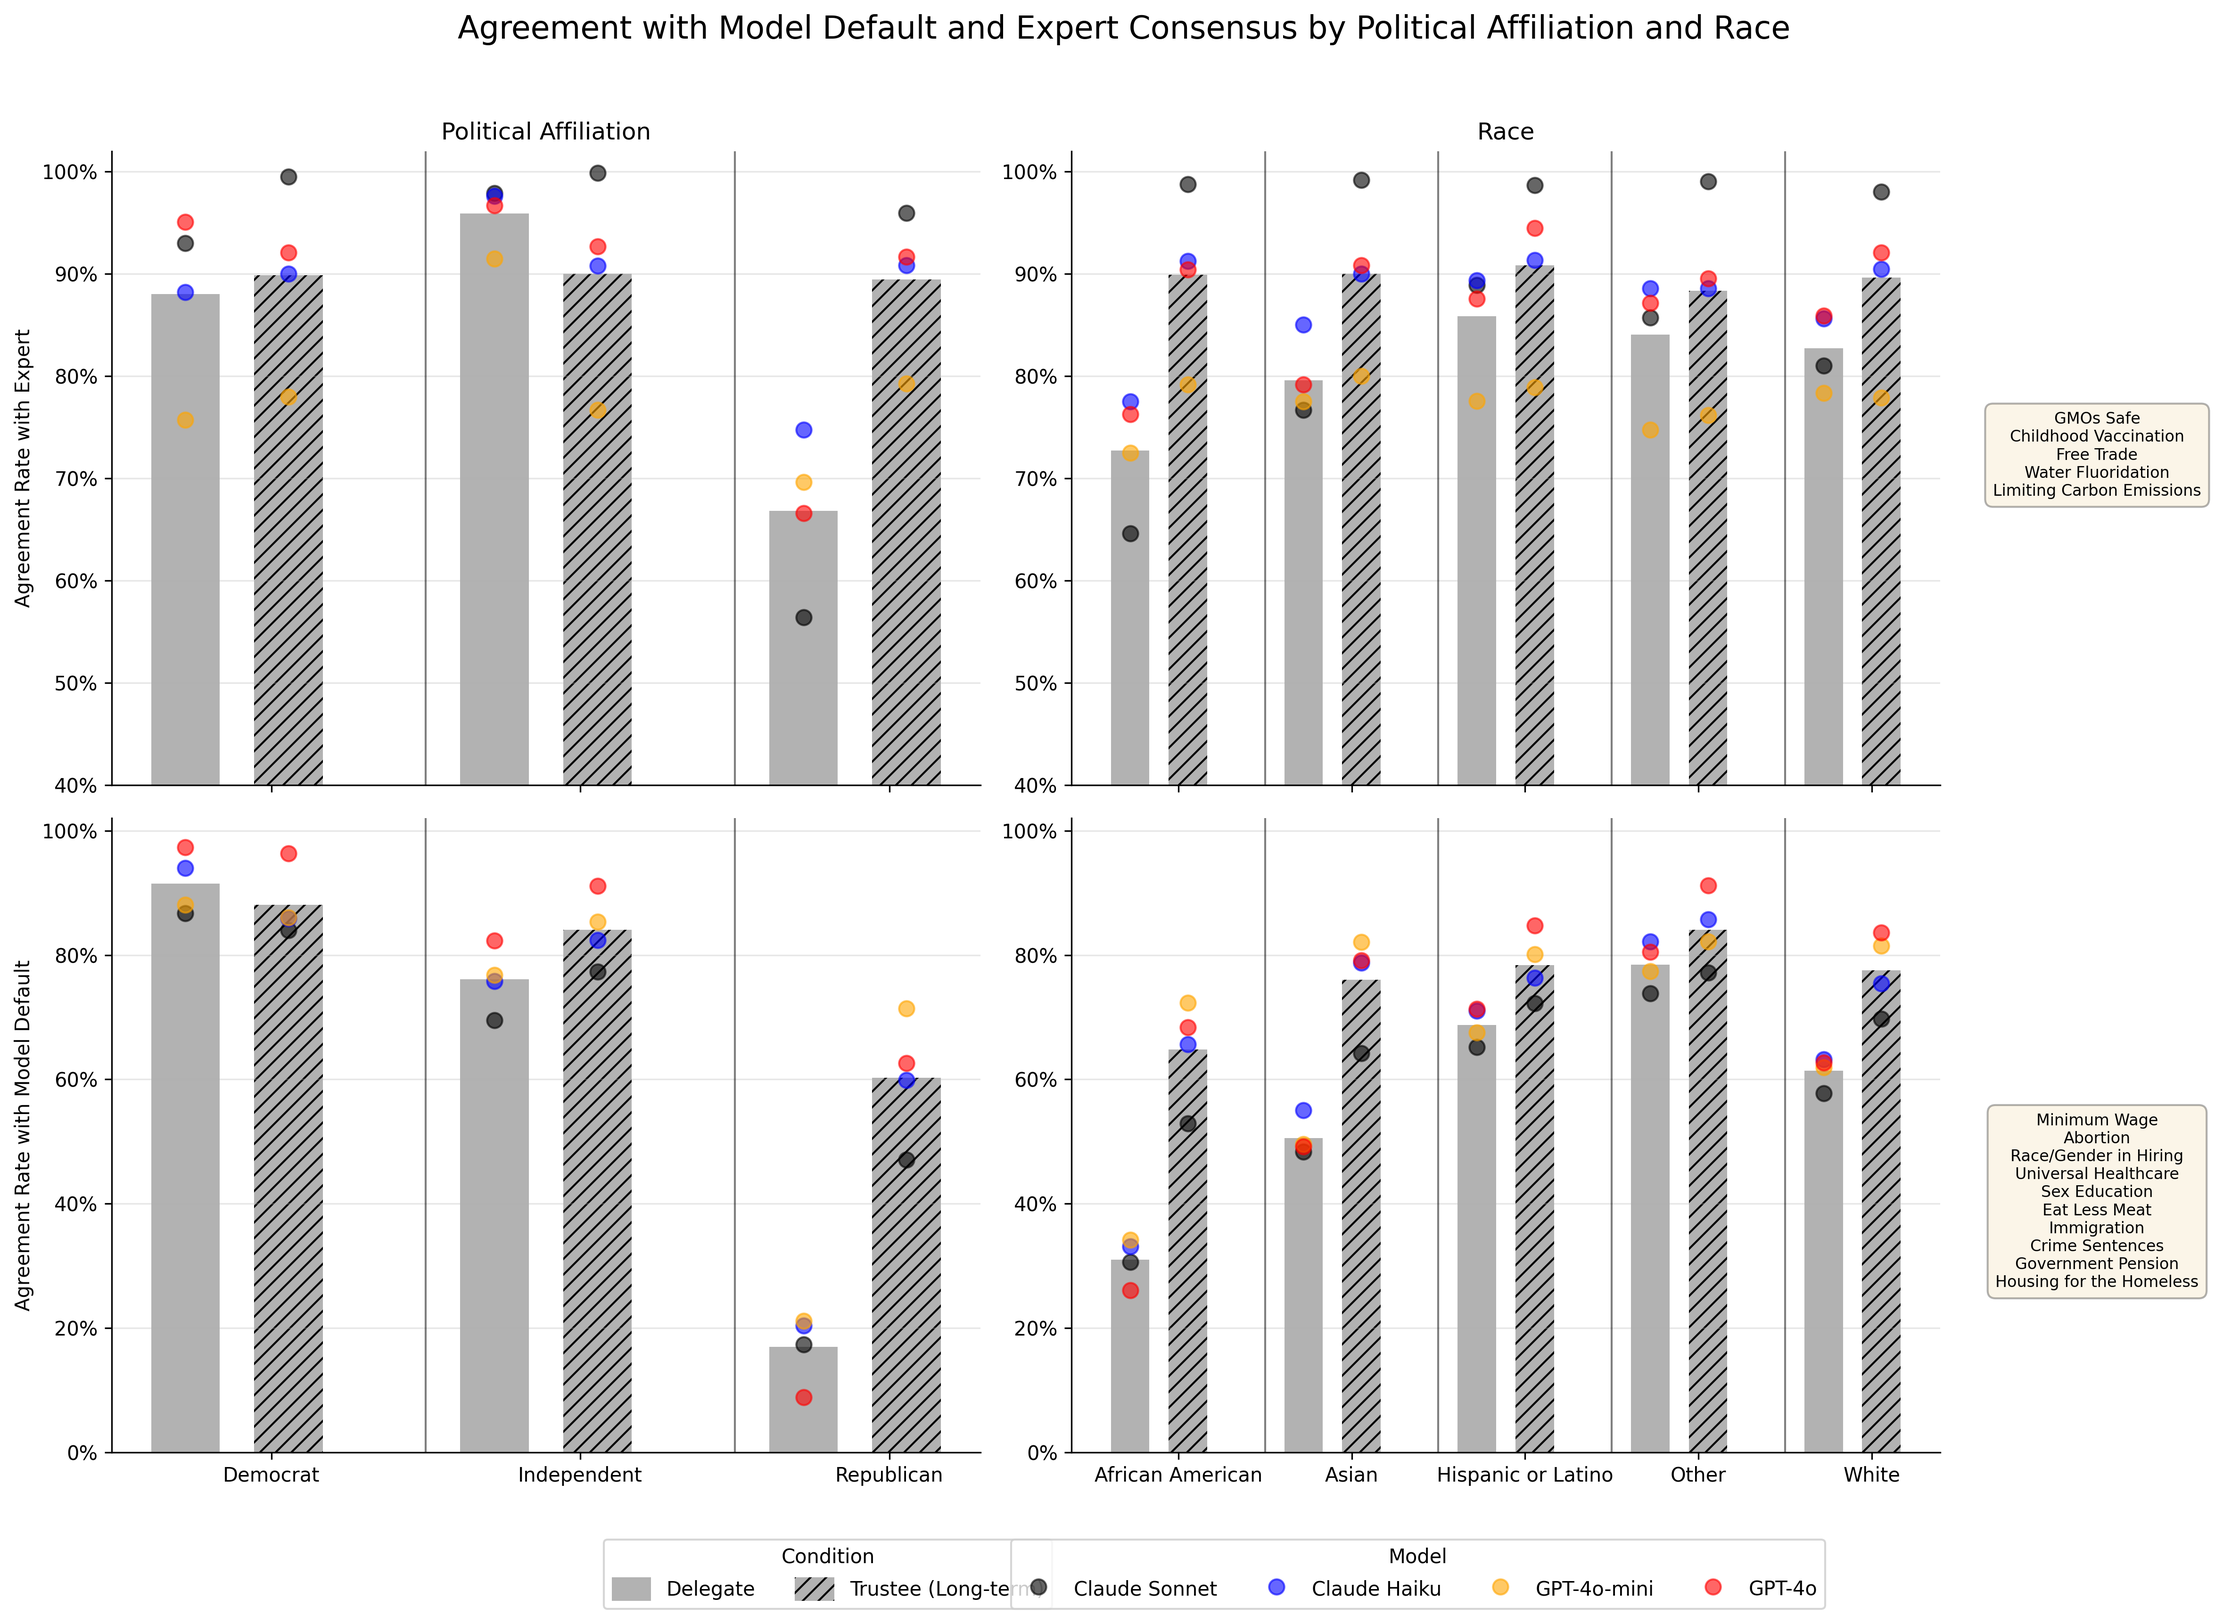
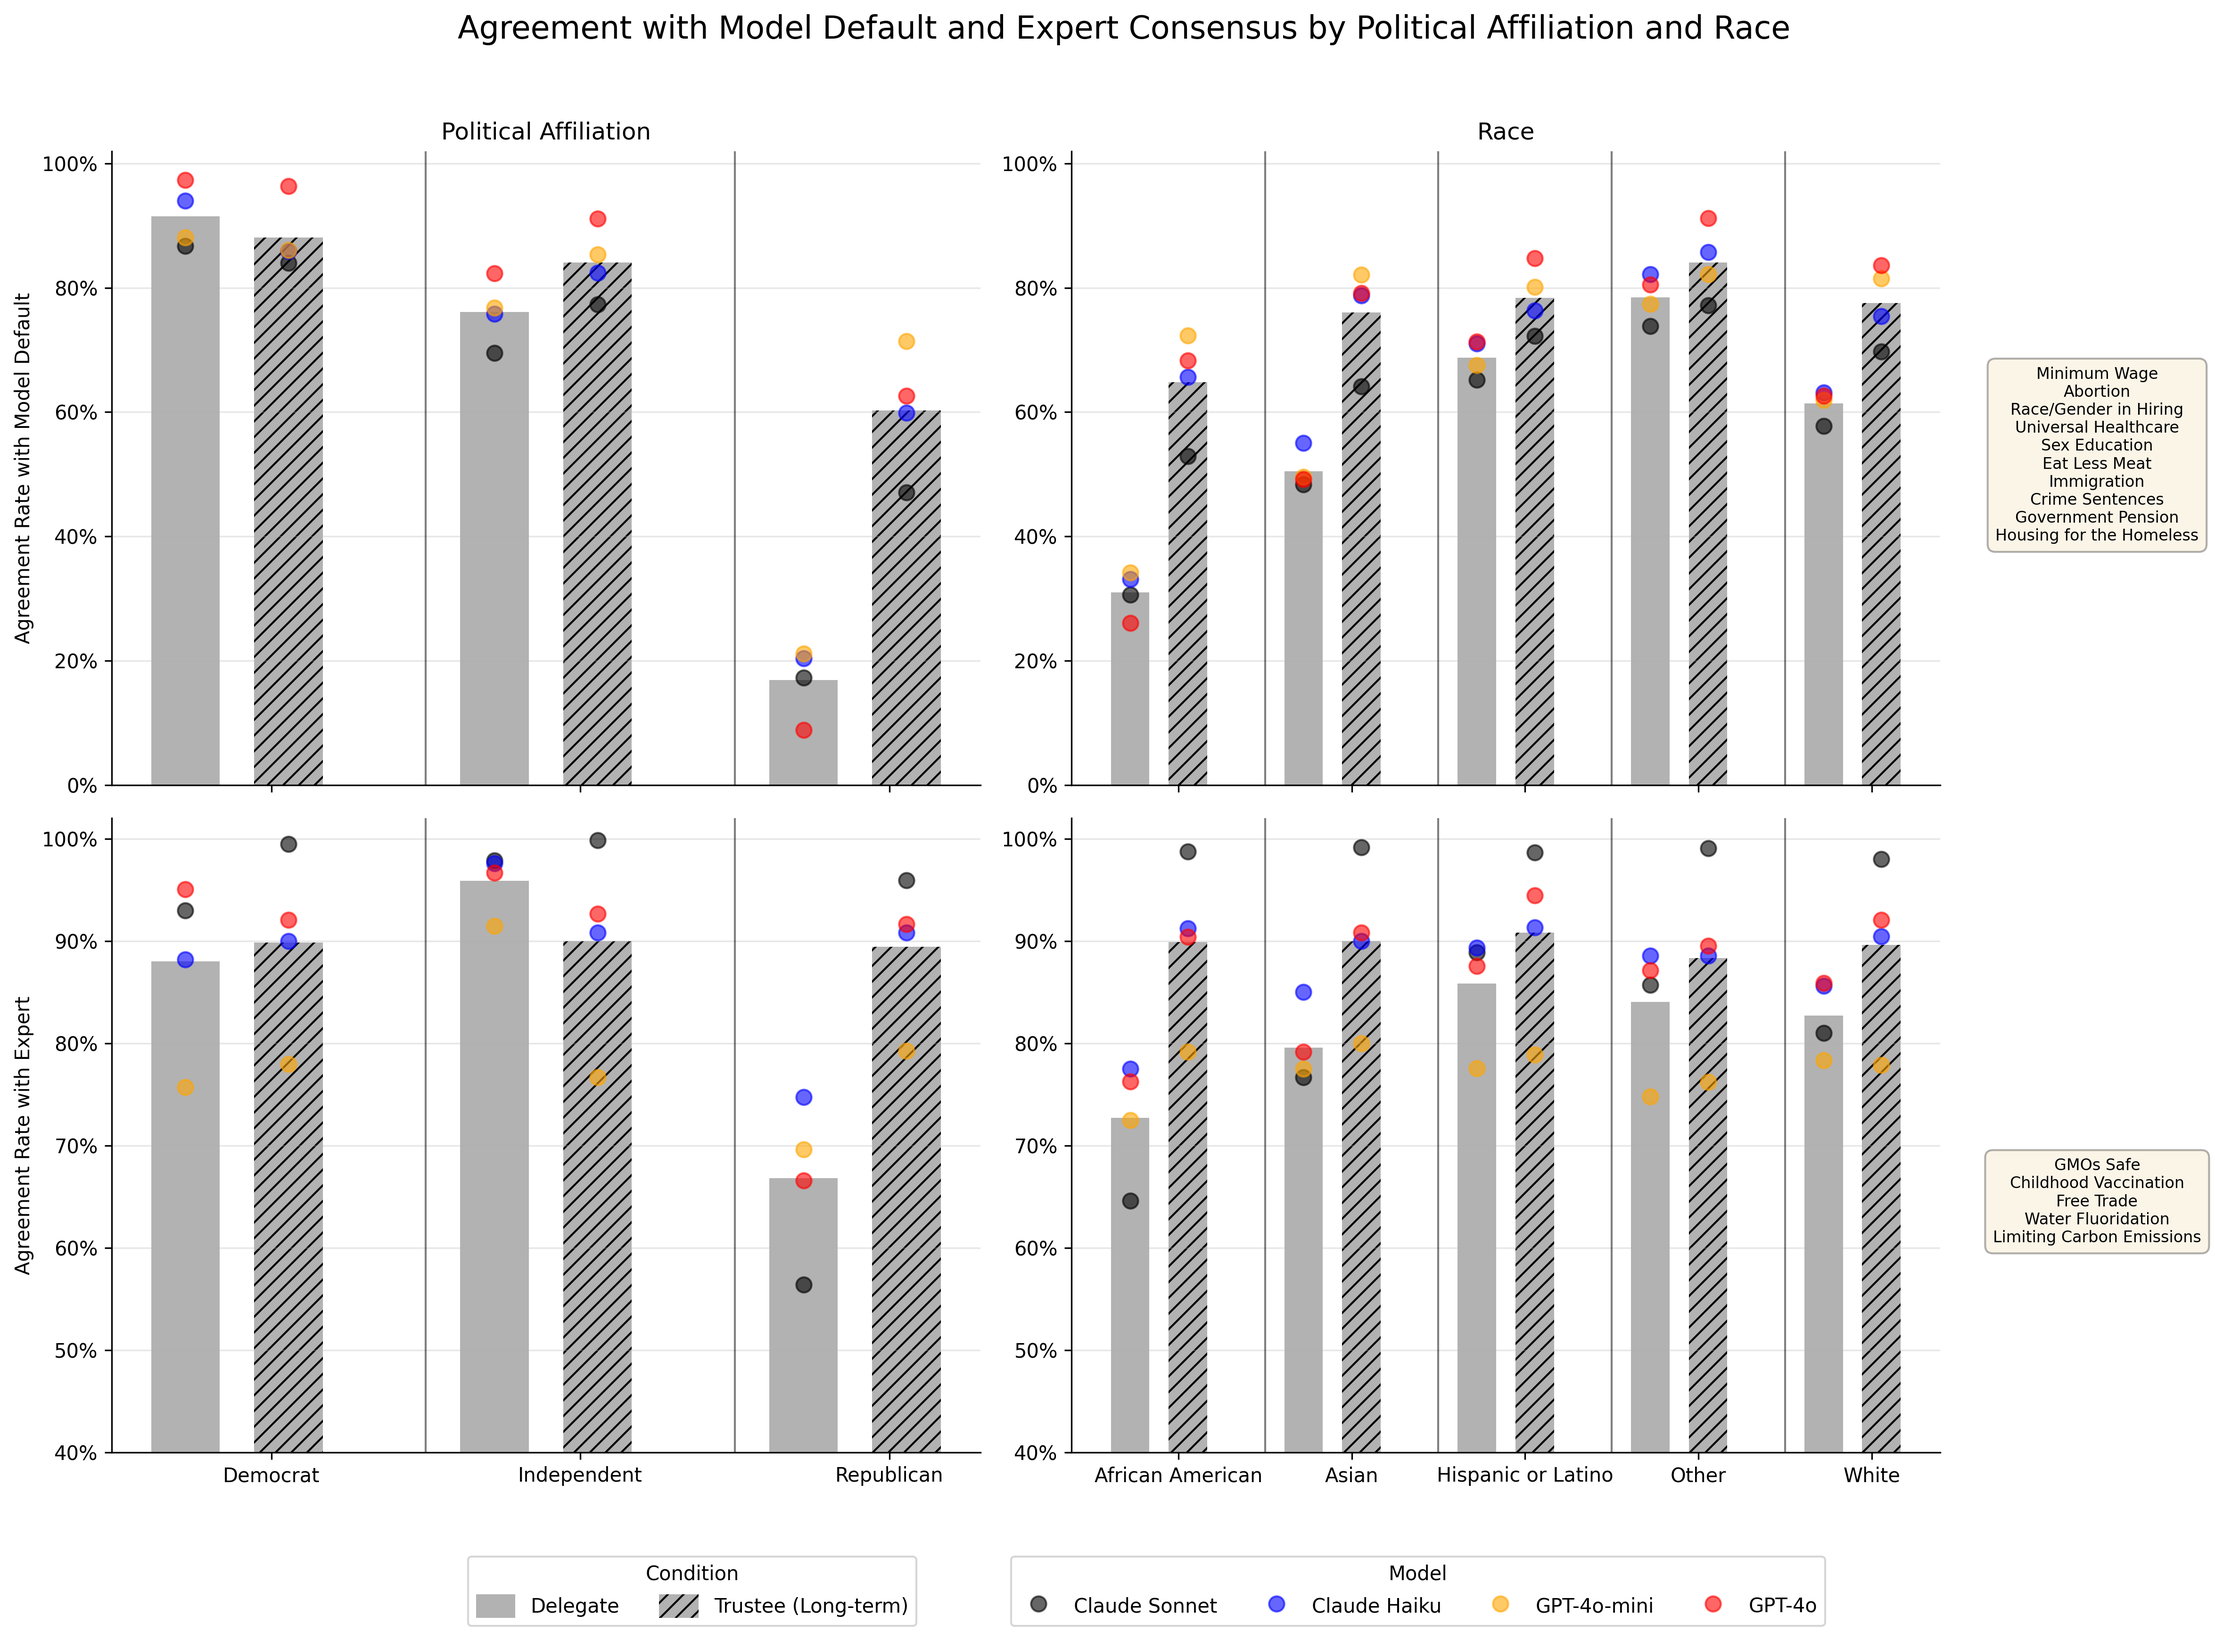
adding

diff --git a/code/demographic_agreement_combined_plot.py b/code/demographic_agreement_combined_plot.py
@@ -2,8 +2,8 @@
 """
 Create combined demographic agreement visualization with 4 models.
 
-Top row: Agreement with expert consensus (delegate/trustee agreement with expert)
-Bottom row: Delegate-trustee agreement (internal agreement)
+Top row: Agreement with model defaults (delegate/trustee agreement with model default)
+Bottom row: Agreement with expert consensus (delegate/trustee agreement with expert)
 
 Both rows show Political Affiliation (left) and Race (right) demographics.
 """
@@ -586,8 +586,8 @@ def create_combined_demographic_plot(
     """
     Create combined 2x2 plot showing agreement by demographics across models.
 
-    Top row: Agreement with expert consensus (delegate/trustee) for expert policies
-    Bottom row: Agreement with model defaults (delegate/trustee) for no-consensus policies
+    Top row: Agreement with model defaults (delegate/trustee) for no-consensus policies
+    Bottom row: Agreement with expert consensus (delegate/trustee) for expert policies
     Columns: One for each demographic (Political Affiliation, Race)
 
     Args:
@@ -635,28 +635,7 @@ def create_combined_demographic_plot(
         print(f"Processing demographic: {demographic}")
         print(f"{'='*70}")
 
-        # Top row: Expert agreement
-        print("\n--- Collecting expert agreement data ---")
-        expert_data = collect_expert_agreement_data(
-            policy_indices=expert_consensus_policies,
-            prompt_nums=prompt_nums,
-            models=MODELS,
-            trustee_type=trustee_type,
-            bio_df=bio_df,
-            demographic=demographic,
-            alphas=alphas
-        )
-
-        plot_expert_agreement_panel(
-            axes[0, col_idx],
-            expert_data,
-            demographic,
-            demographic,  # Just the demographic name, no "Agreement with Expert Consensus"
-            show_ylabel=(col_idx == 0),  # Only show ylabel on leftmost chart
-            show_xticklabels=False  # Hide x-tick labels on top row
-        )
-
-        # Bottom row: Agreement with model default
+        # Top row: Agreement with model default
         print("\n--- Collecting default agreement data ---")
         default_data = collect_default_agreement_data(
             policy_indices=no_consensus_policies,
@@ -669,13 +648,36 @@ def create_combined_demographic_plot(
         )
 
         plot_expert_agreement_panel(
-            axes[1, col_idx],
+            axes[0, col_idx],
             default_data,
+            demographic,
+            demographic,  # Just the demographic name
+            show_ylabel=(col_idx == 0),  # Only show ylabel on leftmost chart
+            ylabel="Agreement Rate with Model Default",
+            ylim=(0.0, 1.02),  # Start at 0%
+            show_xticklabels=False  # Hide x-tick labels on top row
+        )
+
+        # Bottom row: Expert agreement
+        print("\n--- Collecting expert agreement data ---")
+        expert_data = collect_expert_agreement_data(
+            policy_indices=expert_consensus_policies,
+            prompt_nums=prompt_nums,
+            models=MODELS,
+            trustee_type=trustee_type,
+            bio_df=bio_df,
+            demographic=demographic,
+            alphas=alphas
+        )
+
+        plot_expert_agreement_panel(
+            axes[1, col_idx],
+            expert_data,
             demographic,
             None,  # No title for bottom row
             show_ylabel=(col_idx == 0),  # Only show ylabel on leftmost chart
-            ylabel="Agreement Rate with Model Default",
-            ylim=(0.0, 1.02),  # Start at 0% for bottom chart
+            ylabel="Agreement Rate with Expert",
+            ylim=(0.4, 1.02),  # Start at 40% for expert agreement
             show_xticklabels=True  # Show x-tick labels on bottom row
         )
 
@@ -686,7 +688,7 @@ def create_combined_demographic_plot(
     bar_type_labels = [l for l in bar_labels if l in ["Delegate", "Trustee (Long-term)"]]
     if bar_type_handles:
         legend1 = fig.legend(bar_type_handles, bar_type_labels,
-                  loc="lower left", bbox_to_anchor=(0.27, 0.04),
+                  loc="lower left", bbox_to_anchor=(0.21, 0.03),
                   fontsize=10, frameon=True, title="Condition",
                   ncol=2, borderaxespad=0, handlelength=2, handleheight=1.5)
 
@@ -695,19 +697,19 @@ def create_combined_demographic_plot(
     model_labels = [l for l in bar_labels if l not in ["Delegate", "Trustee (Long-term)"]]
     if model_handles:
         legend2 = fig.legend(model_handles, model_labels,
-                  loc="lower left", bbox_to_anchor=(0.45, 0.04),
+                  loc="lower left", bbox_to_anchor=(0.45, 0.03),
                   fontsize=10, frameon=True, title="Model",
                   ncol=4, borderaxespad=0, handlelength=2, handleheight=1.5)
 
-    # Add expert topics text (centered on top row, further right)
-    expert_topics_text = "\n".join(expert_topics)
-    fig.text(0.93, 0.72, expert_topics_text,
+    # Add no consensus topics text (centered on top row, further right)
+    no_consensus_topics_text = "\n".join(no_consensus_topics)
+    fig.text(0.93, 0.72, no_consensus_topics_text,
             fontsize=8, va='center', ha='center',
             bbox=dict(boxstyle='round', facecolor='wheat', alpha=0.3, pad=0.5))
 
-    # Add no consensus topics text (centered on bottom row, further right)
-    no_consensus_topics_text = "\n".join(no_consensus_topics)
-    fig.text(0.93, 0.28, no_consensus_topics_text,
+    # Add expert topics text (centered on bottom row, further right)
+    expert_topics_text = "\n".join(expert_topics)
+    fig.text(0.93, 0.28, expert_topics_text,
             fontsize=8, va='center', ha='center',
             bbox=dict(boxstyle='round', facecolor='wheat', alpha=0.3, pad=0.5))
 
